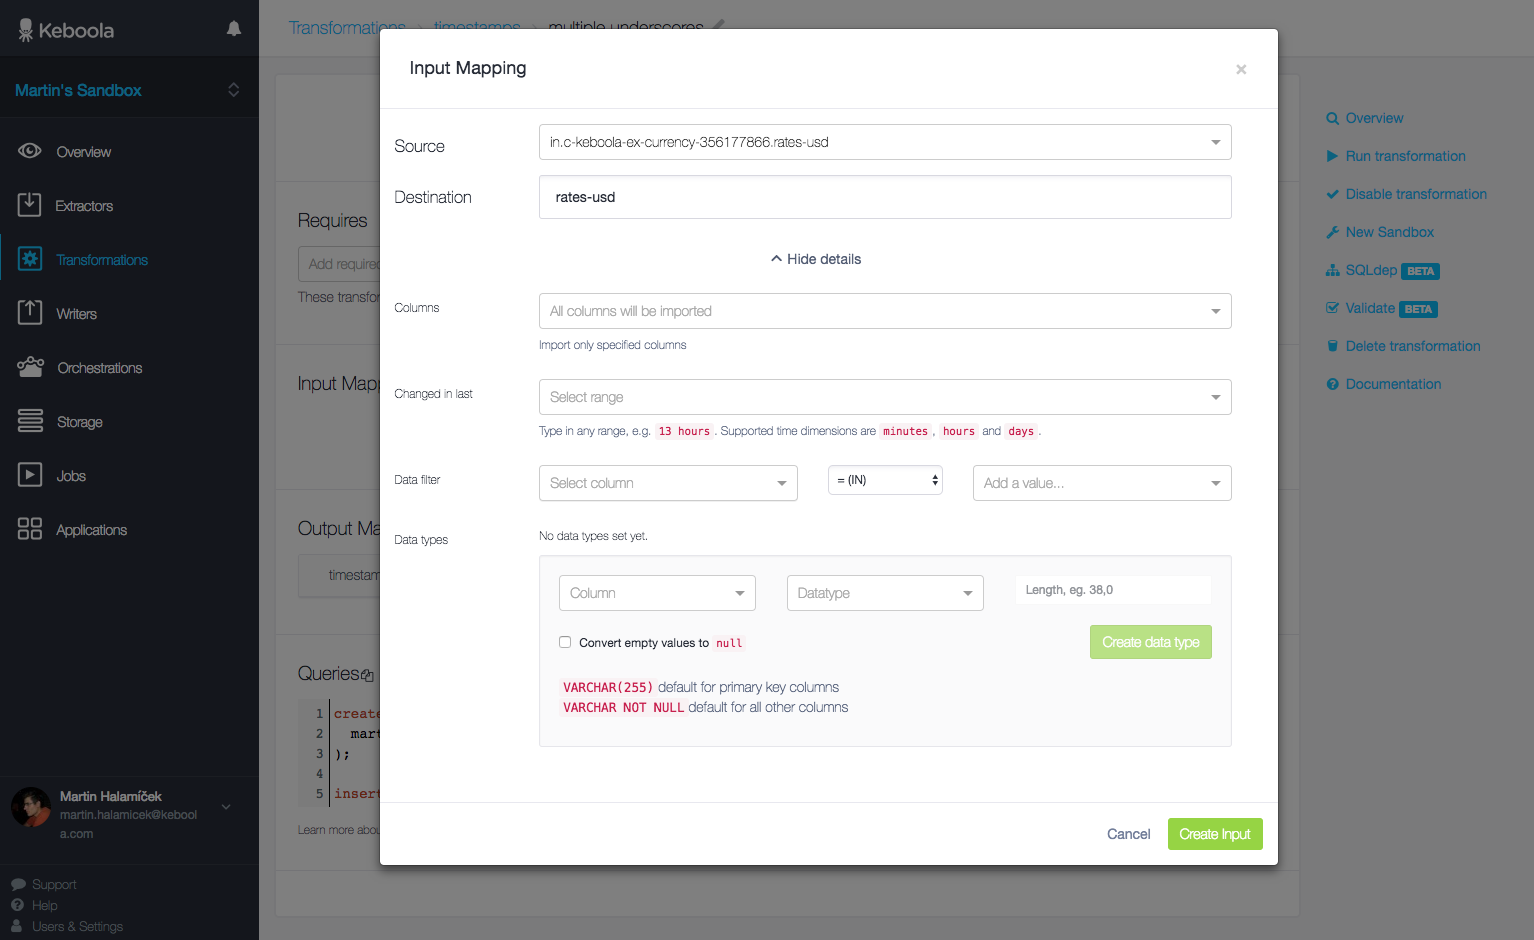
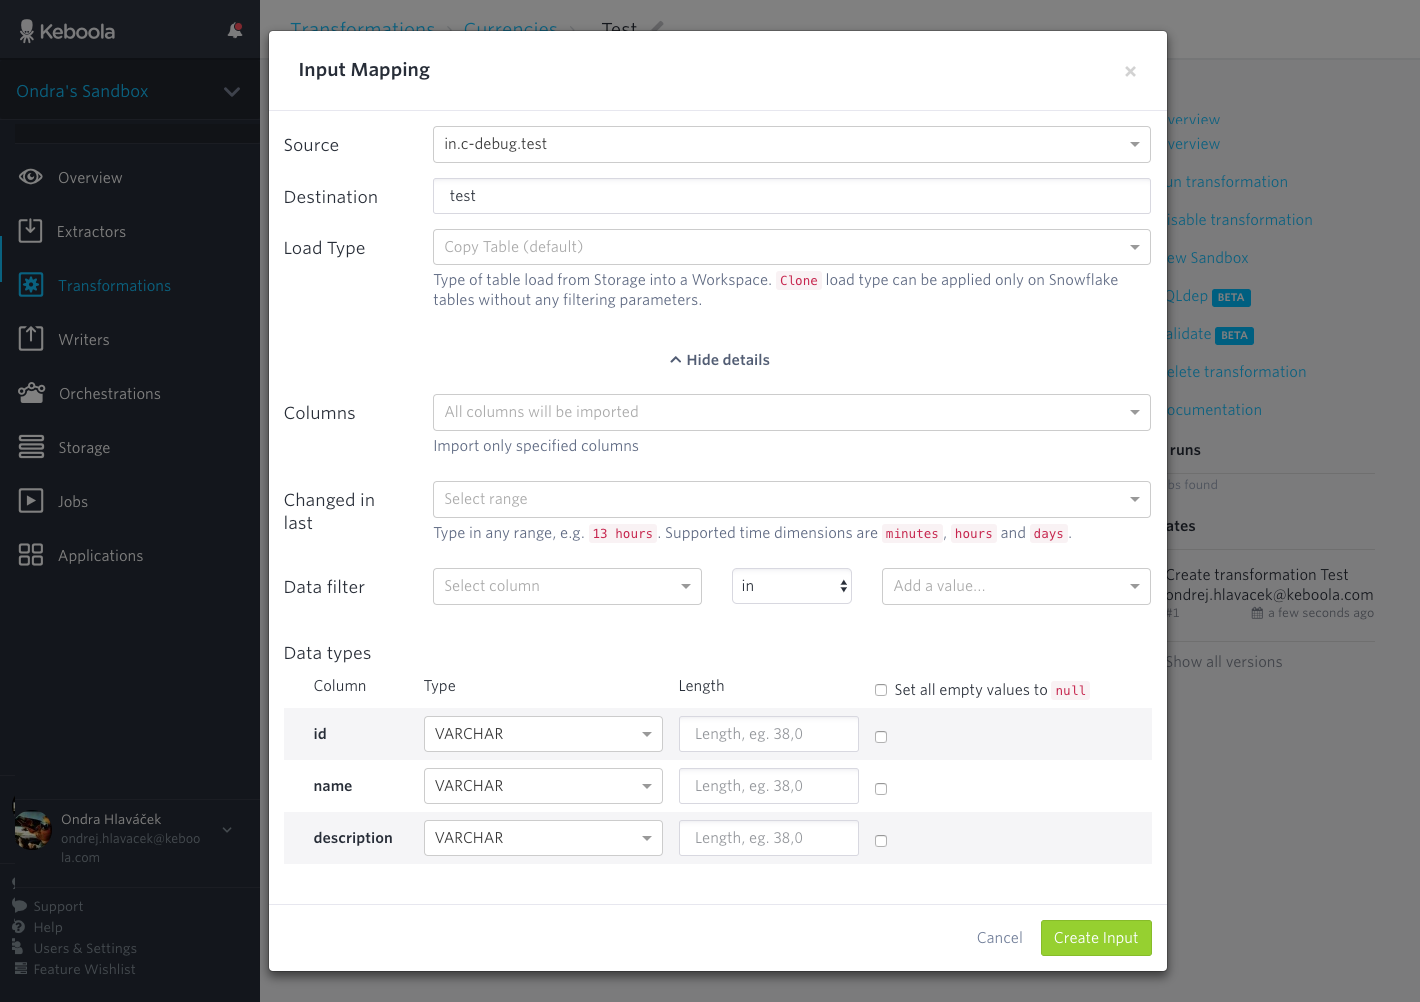
feat: clone table load type

diff --git a/manipulation/transformations/mappings.md b/manipulation/transformations/mappings.md
@@ -34,12 +34,14 @@ This data is made available as a table for SQL, or as a CSV file for R and Pytho
 {: .image-popup}
 ![Input mapping](/manipulation/transformations/input-mapping.png)
 
-Any input mapping has the following options (to see all options, the *Show details* checkbox 
-above the *Source* field must be checked):
+Any input mapping has the following options (to see all options, click on the *Show details* button):
 
 - **Source** --- Select a table in Storage as the source table for your transformation.
 - **Destination** --- This is the *Source* table/file name to be used inside the transformation 
-(it fills in automatically, but can be changed); file names should end with `.csv`. 
+(it fills in automatically, but can be changed); file names should end with `.csv`.
+- **Load Type** --- Available only in Snowflake transformations. This parameter can switch the input mapping to use 
+the internal [`CLONE` command](https://docs.snowflake.net/manuals/sql-reference/sql/create-clone.html). 
+Read more in the [Clone Table Load Type](/manipulation/transformations/snowflake#clone-table-load-type) section. 
 - **Columns** --- Select specific columns if you do not want to import them all; this saves processing time for larger tables.
 - **Changed in last** --- If you are into incremental processing, this comes in handy; import only rows changed or created within the selected time period.
  Supported time dimensions are `minutes`, `hours` and `days`.
@@ -56,6 +58,7 @@ You can combine these options freely. Input mappings for Snowflake, MySQL and Re
 **Important:** You can create Input Mappings for as many tables as you need for your transformation.
 
 *See an example of [setting up Input Mapping](/tutorial/manipulate/#input-mapping) in our tutorial.*
+
 
 ### Output Mapping
 

diff --git a/manipulation/transformations/snowflake/index.md b/manipulation/transformations/snowflake/index.md
@@ -24,6 +24,35 @@ Please [share your migration tips](http://wiki.keboola.com/home/transformations/
 - Queries containing comments longer than 8,192 characters will segfault.
 - Constraints (like PRIMARY KEY or UNIQUE) are defined, but [not enforced](https://docs.snowflake.net/manuals/sql-reference/constraints-overview.html).
 
+## Clone Table Load Type
+
+{: .image-popup}
+![Output mapping](/manipulation/transformations/snowflake/clone-table.png)
+
+By switching Load Type to `Clone Table` the input mapping will utilize the Snowflake 
+[`CLONE` command](https://docs.snowflake.net/manuals/sql-reference/sql/create-clone.html). 
+
+The `CLONE` command will execute the input mapping almost instantly for a table of any size as it physically does not move any data. 
+As the `CLONE` command has no further options all other input mapping options will be disabled 
+(except for `Source` and `Destination` of course). 
+ 
+`Clone Table` is useful when
+
+ - your table is very large and the `Copy Table` load type is slow
+ - you need more complex input mapping filters (eg. filtering by a date column in your data)
+
+### `_timestamp` System Column
+
+Table loaded using `Copy Table` will contain all columns of the original table and a new `_timestamp` column.
+This column is used internally by Keboola Connection to compare with the value of the `Changed in last` filter. 
+
+The value in the column contains a unix timestamp of the last change of the row which is
+
+ - when the row was added to the table, or
+ - when any of the cells was modified using an incremental load
+
+You can use this column to set up incremental processing.
+
 ## Best Practices
 
 ### Case Sensitivity
